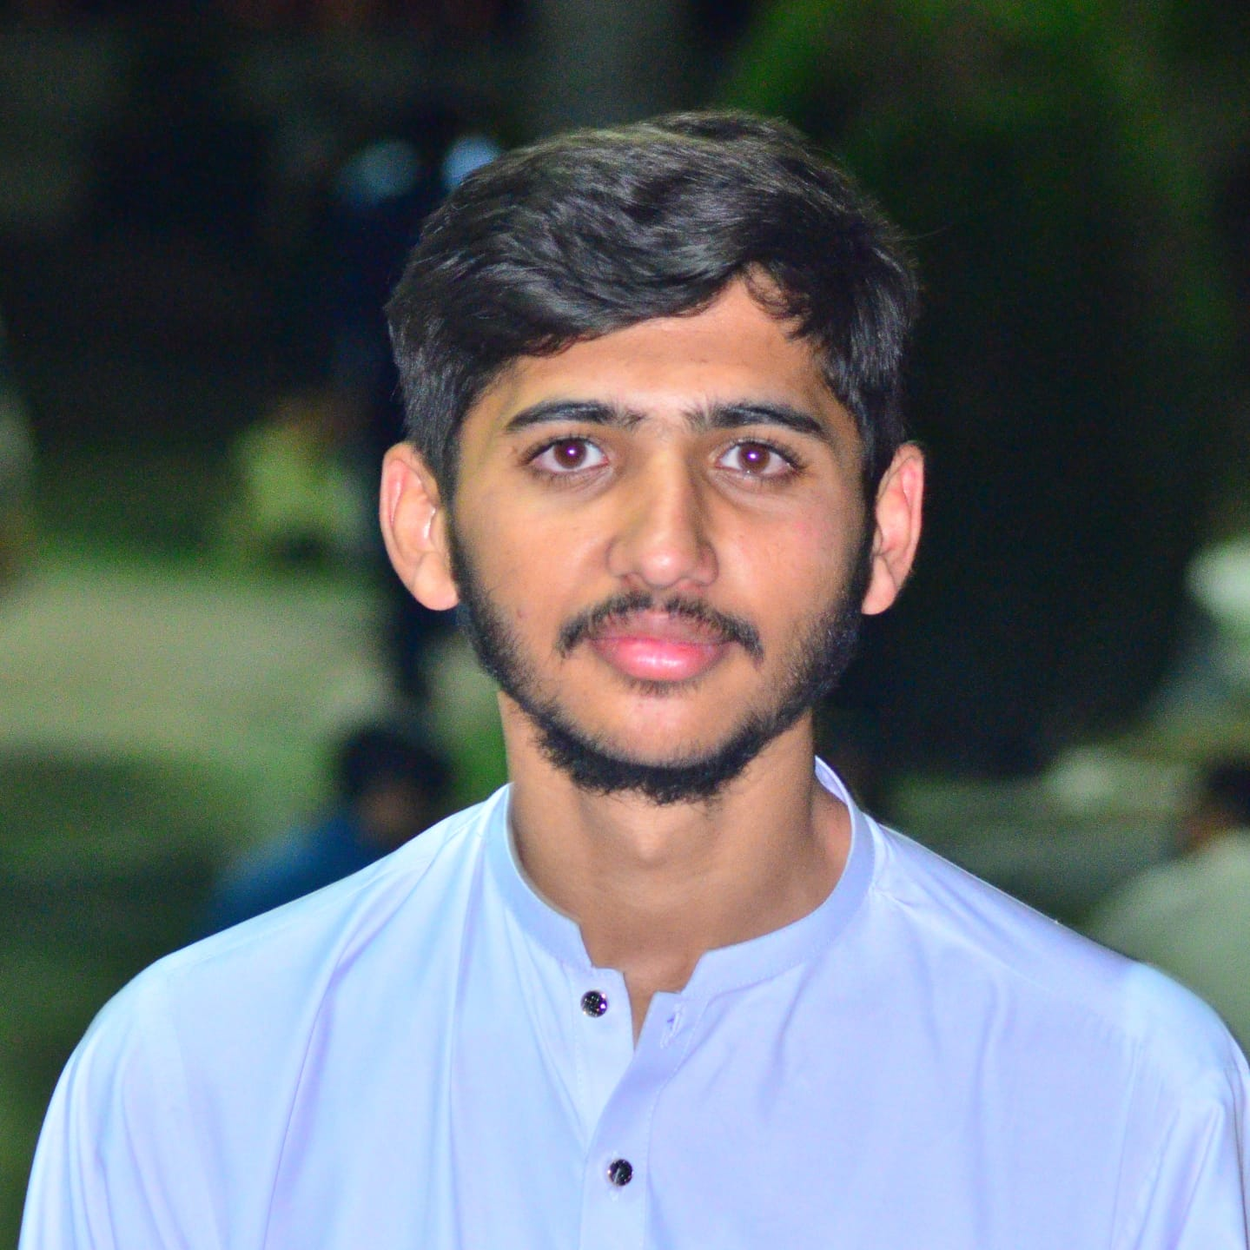
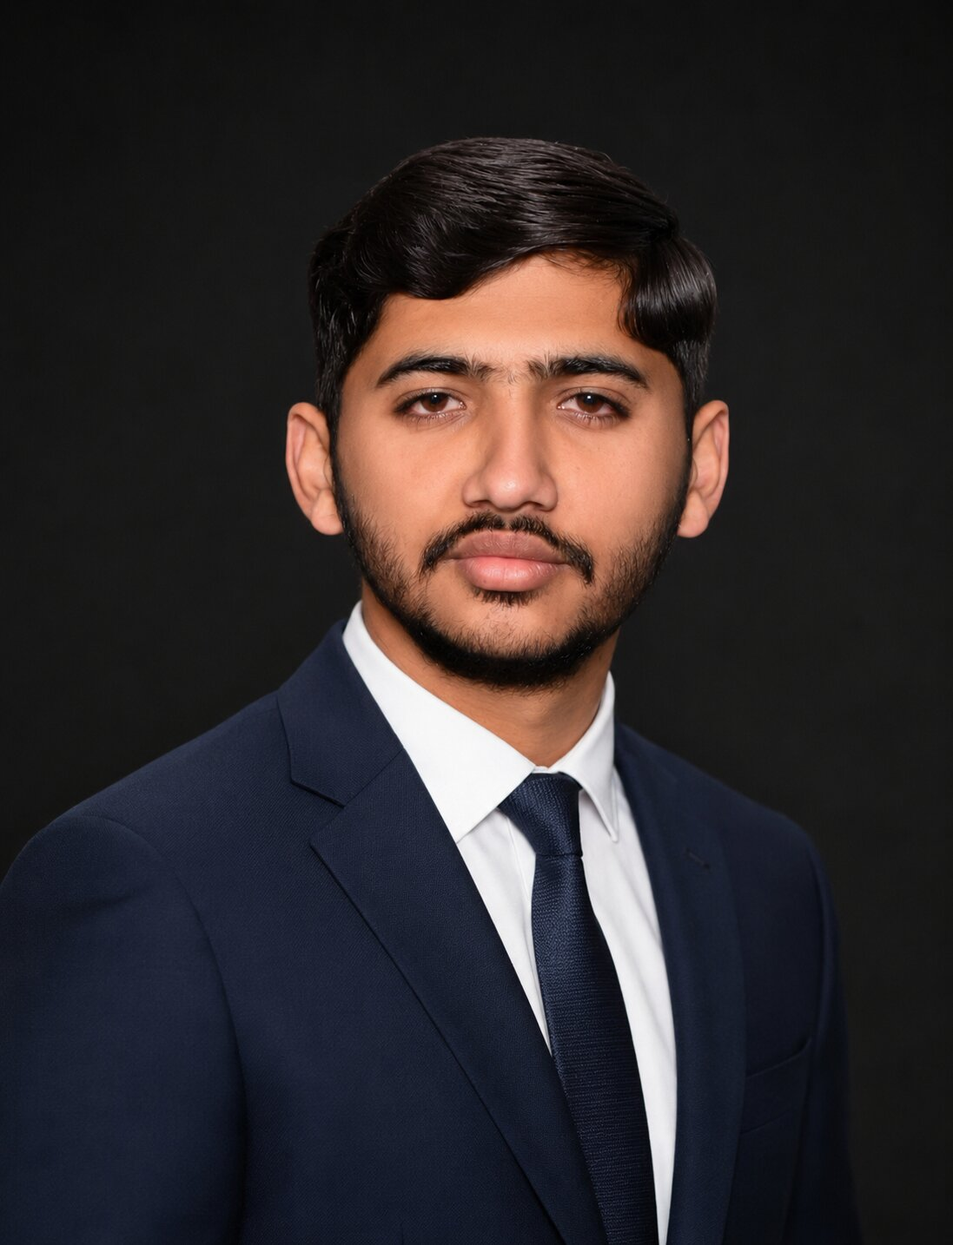
Add Google site verification HTML file for SEO purposes

diff --git a/android/build/reports/problems/problems-report.html b/android/build/reports/problems/problems-report.html
@@ -650,7 +650,7 @@ code + .copy-button {
 <script type="text/javascript">
 function configurationCacheProblems() { return (
 // begin-report-data
-{"diagnostics":[{"locations":[{"path":"build file 'C:\\Users\\Saif Ul Hassan\\AppData\\Local\\Pub\\Cache\\hosted\\pub.dev\\email_launcher-1.1.1\\android\\build.gradle'","line":8},{"path":"build file 'C:\\Users\\Saif Ul Hassan\\AppData\\Local\\Pub\\Cache\\hosted\\pub.dev\\email_launcher-1.1.1\\android\\build.gradle'","line":8}],"problem":[{"text":"The RepositoryHandler.jcenter() method has been deprecated."}],"severity":"WARNING","problemDetails":[{"text":"This is scheduled to be removed in Gradle 9.0."}],"contextualLabel":"The RepositoryHandler.jcenter() method has been deprecated.","documentationLink":"https://docs.gradle.org/8.12/userguide/upgrading_version_6.html#jcenter_deprecation","problemId":[{"name":"deprecation","displayName":"Deprecation"},{"name":"repository-jcenter","displayName":"The RepositoryHandler.jcenter() method has been deprecated."}],"solutions":[[{"text":"JFrog announced JCenter's sunset in February 2021. Use mavenCentral() instead."}]]},{"locations":[{"path":"build file 'C:\\Users\\Saif Ul Hassan\\AppData\\Local\\Pub\\Cache\\hosted\\pub.dev\\email_launcher-1.1.1\\android\\build.gradle'","line":1},{"path":"build file 'C:\\Users\\Saif Ul Hassan\\AppData\\Local\\Pub\\Cache\\hosted\\pub.dev\\email_launcher-1.1.1\\android\\build.gradle'","line":1}],"problem":[{"text":"Space-assignment syntax in Groovy DSL has been deprecated."}],"severity":"WARNING","problemDetails":[{"text":"This is scheduled to be removed in Gradle 10.0."}],"contextualLabel":"Space-assignment syntax in Groovy DSL has been deprecated.","documentationLink":"https://docs.gradle.org/8.12/userguide/upgrading_version_8.html#groovy_space_assignment_syntax","problemId":[{"name":"deprecation","displayName":"Deprecation"},{"name":"space-assignment-syntax-in-groovy-dsl","displayName":"Space-assignment syntax in Groovy DSL has been deprecated."}],"solutions":[[{"text":"Use assignment ('group = <value>') instead."}]]},{"locations":[{"path":"build file 'C:\\Users\\Saif Ul Hassan\\AppData\\Local\\Pub\\Cache\\hosted\\pub.dev\\email_launcher-1.1.1\\android\\build.gradle'","line":2},{"path":"build file 'C:\\Users\\Saif Ul Hassan\\AppData\\Local\\Pub\\Cache\\hosted\\pub.dev\\email_launcher-1.1.1\\android\\build.gradle'","line":2}],"problem":[{"text":"Space-assignment syntax in Groovy DSL has been deprecated."}],"severity":"WARNING","problemDetails":[{"text":"This is scheduled to be removed in Gradle 10.0."}],"contextualLabel":"Space-assignment syntax in Groovy DSL has been deprecated.","documentationLink":"https://docs.gradle.org/8.12/userguide/upgrading_version_8.html#groovy_space_assignment_syntax","problemId":[{"name":"deprecation","displayName":"Deprecation"},{"name":"space-assignment-syntax-in-groovy-dsl","displayName":"Space-assignment syntax in Groovy DSL has been deprecated."}],"solutions":[[{"text":"Use assignment ('version = <value>') instead."}]]},{"locations":[{"path":"build file 'C:\\Users\\Saif Ul Hassan\\AppData\\Local\\Pub\\Cache\\hosted\\pub.dev\\email_launcher-1.1.1\\android\\build.gradle'","line":20},{"path":"build file 'C:\\Users\\Saif Ul Hassan\\AppData\\Local\\Pub\\Cache\\hosted\\pub.dev\\email_launcher-1.1.1\\android\\build.gradle'","line":20}],"problem":[{"text":"The RepositoryHandler.jcenter() method has been deprecated."}],"severity":"WARNING","problemDetails":[{"text":"This is scheduled to be removed in Gradle 9.0."}],"contextualLabel":"The RepositoryHandler.jcenter() method has been deprecated.","documentationLink":"https://docs.gradle.org/8.12/userguide/upgrading_version_6.html#jcenter_deprecation","problemId":[{"name":"deprecation","displayName":"Deprecation"},{"name":"repository-jcenter","displayName":"The RepositoryHandler.jcenter() method has been deprecated."}],"solutions":[[{"text":"JFrog announced JCenter's sunset in February 2021. Use mavenCentral() instead."}]]},{"locations":[{"path":"build file 'C:\\Users\\Saif Ul Hassan\\AppData\\Local\\Pub\\Cache\\hosted\\pub.dev\\email_launcher-1.1.1\\android\\build.gradle'","line":20},{"path":"build file 'C:\\Users\\Saif Ul Hassan\\AppData\\Local\\Pub\\Cache\\hosted\\pub.dev\\email_launcher-1.1.1\\android\\build.gradle'","line":20}],"problem":[{"text":"The RepositoryHandler.jcenter() method has been deprecated."}],"severity":"WARNING","problemDetails":[{"text":"This is scheduled to be removed in Gradle 9.0."}],"contextualLabel":"The RepositoryHandler.jcenter() method has been deprecated.","documentationLink":"https://docs.gradle.org/8.12/userguide/upgrading_version_6.html#jcenter_deprecation","problemId":[{"name":"deprecation","displayName":"Deprecation"},{"name":"repository-jcenter","displayName":"The RepositoryHandler.jcenter() method has been deprecated."}],"solutions":[[{"text":"JFrog announced JCenter's sunset in February 2021. Use mavenCentral() instead."}]]},{"locations":[{"path":"build file 'C:\\Users\\Saif Ul Hassan\\AppData\\Local\\Pub\\Cache\\hosted\\pub.dev\\email_launcher-1.1.1\\android\\build.gradle'","line":20},{"path":"build file 'C:\\Users\\Saif Ul Hassan\\AppData\\Local\\Pub\\Cache\\hosted\\pub.dev\\email_launcher-1.1.1\\android\\build.gradle'","line":20}],"problem":[{"text":"The RepositoryHandler.jcenter() method has been deprecated."}],"severity":"WARNING","problemDetails":[{"text":"This is scheduled to be removed in Gradle 9.0."}],"contextualLabel":"The RepositoryHandler.jcenter() method has been deprecated.","documentationLink":"https://docs.gradle.org/8.12/userguide/upgrading_version_6.html#jcenter_deprecation","problemId":[{"name":"deprecation","displayName":"Deprecation"},{"name":"repository-jcenter","displayName":"The RepositoryHandler.jcenter() method has been deprecated."}],"solutions":[[{"text":"JFrog announced JCenter's sunset in February 2021. Use mavenCentral() instead."}]]},{"locations":[{"path":"build file 'C:\\Users\\Saif Ul Hassan\\AppData\\Local\\Pub\\Cache\\hosted\\pub.dev\\email_launcher-1.1.1\\android\\build.gradle'","line":20},{"path":"build file 'C:\\Users\\Saif Ul Hassan\\AppData\\Local\\Pub\\Cache\\hosted\\pub.dev\\email_launcher-1.1.1\\android\\build.gradle'","line":20}],"problem":[{"text":"The RepositoryHandler.jcenter() method has been deprecated."}],"severity":"WARNING","problemDetails":[{"text":"This is scheduled to be removed in Gradle 9.0."}],"contextualLabel":"The RepositoryHandler.jcenter() method has been deprecated.","documentationLink":"https://docs.gradle.org/8.12/userguide/upgrading_version_6.html#jcenter_deprecation","problemId":[{"name":"deprecation","displayName":"Deprecation"},{"name":"repository-jcenter","displayName":"The RepositoryHandler.jcenter() method has been deprecated."}],"solutions":[[{"text":"JFrog announced JCenter's sunset in February 2021. Use mavenCentral() instead."}]]},{"locations":[{"path":"build file 'C:\\Users\\Saif Ul Hassan\\AppData\\Local\\Pub\\Cache\\hosted\\pub.dev\\email_launcher-1.1.1\\android\\build.gradle'","line":20},{"path":"build file 'C:\\Users\\Saif Ul Hassan\\AppData\\Local\\Pub\\Cache\\hosted\\pub.dev\\email_launcher-1.1.1\\android\\build.gradle'","line":20}],"problem":[{"text":"The RepositoryHandler.jcenter() method has been deprecated."}],"severity":"WARNING","problemDetails":[{"text":"This is scheduled to be removed in Gradle 9.0."}],"contextualLabel":"The RepositoryHandler.jcenter() method has been deprecated.","documentationLink":"https://docs.gradle.org/8.12/userguide/upgrading_version_6.html#jcenter_deprecation","problemId":[{"name":"deprecation","displayName":"Deprecation"},{"name":"repository-jcenter","displayName":"The RepositoryHandler.jcenter() method has been deprecated."}],"solutions":[[{"text":"JFrog announced JCenter's sunset in February 2021. Use mavenCentral() instead."}]]}],"problemsReport":{"totalProblemCount":8,"buildName":"android","requestedTasks":"","documentationLink":"https://docs.gradle.org/8.12/userguide/problems-report.html","documentationLinkCaption":"Problem report","summaries":[]}}
+{"diagnostics":[{"locations":[{"path":"build file 'C:\\Users\\Saif Ul Hassan\\AppData\\Local\\Pub\\Cache\\hosted\\pub.dev\\email_launcher-1.1.1\\android\\build.gradle'","line":8},{"path":"build file 'C:\\Users\\Saif Ul Hassan\\AppData\\Local\\Pub\\Cache\\hosted\\pub.dev\\email_launcher-1.1.1\\android\\build.gradle'","line":8}],"problem":[{"text":"The RepositoryHandler.jcenter() method has been deprecated."}],"severity":"WARNING","problemDetails":[{"text":"This is scheduled to be removed in Gradle 9.0."}],"contextualLabel":"The RepositoryHandler.jcenter() method has been deprecated.","documentationLink":"https://docs.gradle.org/8.12/userguide/upgrading_version_6.html#jcenter_deprecation","problemId":[{"name":"deprecation","displayName":"Deprecation"},{"name":"repository-jcenter","displayName":"The RepositoryHandler.jcenter() method has been deprecated."}],"solutions":[[{"text":"JFrog announced JCenter's sunset in February 2021. Use mavenCentral() instead."}]]},{"locations":[{"path":"build file 'C:\\Users\\Saif Ul Hassan\\AppData\\Local\\Pub\\Cache\\hosted\\pub.dev\\email_launcher-1.1.1\\android\\build.gradle'","line":1},{"path":"build file 'C:\\Users\\Saif Ul Hassan\\AppData\\Local\\Pub\\Cache\\hosted\\pub.dev\\email_launcher-1.1.1\\android\\build.gradle'","line":1}],"problem":[{"text":"Space-assignment syntax in Groovy DSL has been deprecated."}],"severity":"WARNING","problemDetails":[{"text":"This is scheduled to be removed in Gradle 10.0."}],"contextualLabel":"Space-assignment syntax in Groovy DSL has been deprecated.","documentationLink":"https://docs.gradle.org/8.12/userguide/upgrading_version_8.html#groovy_space_assignment_syntax","problemId":[{"name":"deprecation","displayName":"Deprecation"},{"name":"space-assignment-syntax-in-groovy-dsl","displayName":"Space-assignment syntax in Groovy DSL has been deprecated."}],"solutions":[[{"text":"Use assignment ('group = <value>') instead."}]]},{"locations":[{"path":"build file 'C:\\Users\\Saif Ul Hassan\\AppData\\Local\\Pub\\Cache\\hosted\\pub.dev\\email_launcher-1.1.1\\android\\build.gradle'","line":2},{"path":"build file 'C:\\Users\\Saif Ul Hassan\\AppData\\Local\\Pub\\Cache\\hosted\\pub.dev\\email_launcher-1.1.1\\android\\build.gradle'","line":2}],"problem":[{"text":"Space-assignment syntax in Groovy DSL has been deprecated."}],"severity":"WARNING","problemDetails":[{"text":"This is scheduled to be removed in Gradle 10.0."}],"contextualLabel":"Space-assignment syntax in Groovy DSL has been deprecated.","documentationLink":"https://docs.gradle.org/8.12/userguide/upgrading_version_8.html#groovy_space_assignment_syntax","problemId":[{"name":"deprecation","displayName":"Deprecation"},{"name":"space-assignment-syntax-in-groovy-dsl","displayName":"Space-assignment syntax in Groovy DSL has been deprecated."}],"solutions":[[{"text":"Use assignment ('version = <value>') instead."}]]},{"locations":[{"path":"build file 'C:\\Users\\Saif Ul Hassan\\AppData\\Local\\Pub\\Cache\\hosted\\pub.dev\\email_launcher-1.1.1\\android\\build.gradle'","line":20},{"path":"build file 'C:\\Users\\Saif Ul Hassan\\AppData\\Local\\Pub\\Cache\\hosted\\pub.dev\\email_launcher-1.1.1\\android\\build.gradle'","line":20}],"problem":[{"text":"The RepositoryHandler.jcenter() method has been deprecated."}],"severity":"WARNING","problemDetails":[{"text":"This is scheduled to be removed in Gradle 9.0."}],"contextualLabel":"The RepositoryHandler.jcenter() method has been deprecated.","documentationLink":"https://docs.gradle.org/8.12/userguide/upgrading_version_6.html#jcenter_deprecation","problemId":[{"name":"deprecation","displayName":"Deprecation"},{"name":"repository-jcenter","displayName":"The RepositoryHandler.jcenter() method has been deprecated."}],"solutions":[[{"text":"JFrog announced JCenter's sunset in February 2021. Use mavenCentral() instead."}]]},{"locations":[{"path":"build file 'C:\\Users\\Saif Ul Hassan\\AppData\\Local\\Pub\\Cache\\hosted\\pub.dev\\email_launcher-1.1.1\\android\\build.gradle'","line":20},{"path":"build file 'C:\\Users\\Saif Ul Hassan\\AppData\\Local\\Pub\\Cache\\hosted\\pub.dev\\email_launcher-1.1.1\\android\\build.gradle'","line":20}],"problem":[{"text":"The RepositoryHandler.jcenter() method has been deprecated."}],"severity":"WARNING","problemDetails":[{"text":"This is scheduled to be removed in Gradle 9.0."}],"contextualLabel":"The RepositoryHandler.jcenter() method has been deprecated.","documentationLink":"https://docs.gradle.org/8.12/userguide/upgrading_version_6.html#jcenter_deprecation","problemId":[{"name":"deprecation","displayName":"Deprecation"},{"name":"repository-jcenter","displayName":"The RepositoryHandler.jcenter() method has been deprecated."}],"solutions":[[{"text":"JFrog announced JCenter's sunset in February 2021. Use mavenCentral() instead."}]]},{"locations":[{"path":"build file 'C:\\Users\\Saif Ul Hassan\\AppData\\Local\\Pub\\Cache\\hosted\\pub.dev\\email_launcher-1.1.1\\android\\build.gradle'","line":20},{"path":"build file 'C:\\Users\\Saif Ul Hassan\\AppData\\Local\\Pub\\Cache\\hosted\\pub.dev\\email_launcher-1.1.1\\android\\build.gradle'","line":20}],"problem":[{"text":"The RepositoryHandler.jcenter() method has been deprecated."}],"severity":"WARNING","problemDetails":[{"text":"This is scheduled to be removed in Gradle 9.0."}],"contextualLabel":"The RepositoryHandler.jcenter() method has been deprecated.","documentationLink":"https://docs.gradle.org/8.12/userguide/upgrading_version_6.html#jcenter_deprecation","problemId":[{"name":"deprecation","displayName":"Deprecation"},{"name":"repository-jcenter","displayName":"The RepositoryHandler.jcenter() method has been deprecated."}],"solutions":[[{"text":"JFrog announced JCenter's sunset in February 2021. Use mavenCentral() instead."}]]},{"locations":[{"path":"build file 'C:\\Users\\Saif Ul Hassan\\AppData\\Local\\Pub\\Cache\\hosted\\pub.dev\\email_launcher-1.1.1\\android\\build.gradle'","line":20},{"path":"build file 'C:\\Users\\Saif Ul Hassan\\AppData\\Local\\Pub\\Cache\\hosted\\pub.dev\\email_launcher-1.1.1\\android\\build.gradle'","line":20}],"problem":[{"text":"The RepositoryHandler.jcenter() method has been deprecated."}],"severity":"WARNING","problemDetails":[{"text":"This is scheduled to be removed in Gradle 9.0."}],"contextualLabel":"The RepositoryHandler.jcenter() method has been deprecated.","documentationLink":"https://docs.gradle.org/8.12/userguide/upgrading_version_6.html#jcenter_deprecation","problemId":[{"name":"deprecation","displayName":"Deprecation"},{"name":"repository-jcenter","displayName":"The RepositoryHandler.jcenter() method has been deprecated."}],"solutions":[[{"text":"JFrog announced JCenter's sunset in February 2021. Use mavenCentral() instead."}]]},{"locations":[{"path":"build file 'C:\\Users\\Saif Ul Hassan\\AppData\\Local\\Pub\\Cache\\hosted\\pub.dev\\email_launcher-1.1.1\\android\\build.gradle'","line":20},{"path":"build file 'C:\\Users\\Saif Ul Hassan\\AppData\\Local\\Pub\\Cache\\hosted\\pub.dev\\email_launcher-1.1.1\\android\\build.gradle'","line":20}],"problem":[{"text":"The RepositoryHandler.jcenter() method has been deprecated."}],"severity":"WARNING","problemDetails":[{"text":"This is scheduled to be removed in Gradle 9.0."}],"contextualLabel":"The RepositoryHandler.jcenter() method has been deprecated.","documentationLink":"https://docs.gradle.org/8.12/userguide/upgrading_version_6.html#jcenter_deprecation","problemId":[{"name":"deprecation","displayName":"Deprecation"},{"name":"repository-jcenter","displayName":"The RepositoryHandler.jcenter() method has been deprecated."}],"solutions":[[{"text":"JFrog announced JCenter's sunset in February 2021. Use mavenCentral() instead."}]]},{"locations":[{"path":"build file 'C:\\Users\\Saif Ul Hassan\\AppData\\Local\\Pub\\Cache\\hosted\\pub.dev\\email_launcher-1.1.1\\android\\build.gradle'","line":20},{"path":"build file 'C:\\Users\\Saif Ul Hassan\\AppData\\Local\\Pub\\Cache\\hosted\\pub.dev\\email_launcher-1.1.1\\android\\build.gradle'","line":20}],"problem":[{"text":"The RepositoryHandler.jcenter() method has been deprecated."}],"severity":"WARNING","problemDetails":[{"text":"This is scheduled to be removed in Gradle 9.0."}],"contextualLabel":"The RepositoryHandler.jcenter() method has been deprecated.","documentationLink":"https://docs.gradle.org/8.12/userguide/upgrading_version_6.html#jcenter_deprecation","problemId":[{"name":"deprecation","displayName":"Deprecation"},{"name":"repository-jcenter","displayName":"The RepositoryHandler.jcenter() method has been deprecated."}],"solutions":[[{"text":"JFrog announced JCenter's sunset in February 2021. Use mavenCentral() instead."}]]}],"problemsReport":{"totalProblemCount":9,"buildName":"android","requestedTasks":"","documentationLink":"https://docs.gradle.org/8.12/userguide/problems-report.html","documentationLinkCaption":"Problem report","summaries":[]}}
 // end-report-data
 );}
 </script>

diff --git a/lib/presentation/widgets/hero_section.dart b/lib/presentation/widgets/hero_section.dart
@@ -57,13 +57,16 @@ class HeroSection extends StatelessWidget {
   Widget _buildDesktopLayout(BuildContext context) {
     return Row(
       children: [
-        Expanded(
-          flex: 2,
-          child: _buildTextContent(context, isDesktop: true),
-        ),
+        Expanded(flex: 2, child: _buildTextContent(context, isDesktop: true)),
         const SizedBox(width: 50),
         Expanded(
-          child: _buildImageContent(),
+          child: Align(
+            alignment: Alignment.centerRight,
+            child: Transform.translate(
+              offset: const Offset(24, -10),
+              child: _buildImageContent(),
+            ),
+          ),
         ),
       ],
     );
@@ -83,8 +86,11 @@ class HeroSection extends StatelessWidget {
     );
   }
 
-  Widget _buildTextContent(BuildContext context,
-      {required bool isDesktop, bool isMobile = false}) {
+  Widget _buildTextContent(
+    BuildContext context, {
+    required bool isDesktop,
+    bool isMobile = false,
+  }) {
     return Column(
       crossAxisAlignment:
           isDesktop ? CrossAxisAlignment.start : CrossAxisAlignment.center,
@@ -144,14 +150,9 @@ class HeroSection extends StatelessWidget {
                 isPrimary: true,
               ),
               const SizedBox(width: 20),
-              _buildActionButton(
-                'View Work',
-                Icons.work,
-                () {
-                  ScrollToSectionNotification('projects').dispatch(context);
-                },
-                isPrimary: false,
-              ),
+              _buildActionButton('View Work', Icons.work, () {
+                ScrollToSectionNotification('projects').dispatch(context);
+              }, isPrimary: false),
             ],
           ),
         ),
@@ -199,7 +200,7 @@ class HeroSection extends StatelessWidget {
           clipBehavior: Clip.hardEdge,
           decoration: const BoxDecoration(shape: BoxShape.circle),
           child: Image.asset(
-            'assets/images/profileimg.png',
+            'assets/images/profile.jpg',
             fit: BoxFit.cover,
             errorBuilder: (context, error, stackTrace) => Container(
               decoration: const BoxDecoration(
@@ -233,9 +234,7 @@ class HeroSection extends StatelessWidget {
         side:
             isPrimary ? null : const BorderSide(color: Colors.white, width: 2),
         padding: const EdgeInsets.symmetric(horizontal: 32, vertical: 16),
-        shape: RoundedRectangleBorder(
-          borderRadius: BorderRadius.circular(30),
-        ),
+        shape: RoundedRectangleBorder(borderRadius: BorderRadius.circular(30)),
       ),
     );
   }
@@ -244,32 +243,34 @@ class HeroSection extends StatelessWidget {
     return Row(
       mainAxisAlignment: MainAxisAlignment.center,
       children: [
-        _buildSocialButton(
-          Icons.email,
-          () {
-            const email = AppConstants.email;
-            final subject = Uri.encodeComponent('Contact from Portfolio');
-            final body = Uri.encodeComponent(
-                'Hi Saiful,\n\nI would like to get in touch with you.');
-            final mailtoUrl = 'mailto:$email?subject=$subject&body=$body';
-            if (kIsWeb) {
-              // Use both location.assign and location.href for maximum compatibility
-              try {
-                html.window.location.assign(mailtoUrl);
-              } catch (e) {
-                html.window.location.href = mailtoUrl;
-              }
-            } else {
-              _launchURL(mailtoUrl);
+        _buildSocialButton(Icons.email, () {
+          const email = AppConstants.email;
+          final subject = Uri.encodeComponent('Contact from Portfolio');
+          final body = Uri.encodeComponent(
+            'Hi Saiful,\n\nI would like to get in touch with you.',
+          );
+          final mailtoUrl = 'mailto:$email?subject=$subject&body=$body';
+          if (kIsWeb) {
+            // Use both location.assign and location.href for maximum compatibility
+            try {
+              html.window.location.assign(mailtoUrl);
+            } catch (e) {
+              html.window.location.href = mailtoUrl;
             }
-          },
+          } else {
+            _launchURL(mailtoUrl);
+          }
+        }),
+        const SizedBox(width: 20),
+        _buildSocialButton(
+          FontAwesomeIcons.github,
+          () => _launchURL(AppConstants.github),
         ),
         const SizedBox(width: 20),
         _buildSocialButton(
-            FontAwesomeIcons.github, () => _launchURL(AppConstants.github)),
-        const SizedBox(width: 20),
-        _buildSocialButton(
-            FontAwesomeIcons.linkedin, () => _launchURL(AppConstants.linkedIn)),
+          FontAwesomeIcons.linkedin,
+          () => _launchURL(AppConstants.linkedIn),
+        ),
       ],
     );
   }
@@ -338,14 +339,16 @@ class HeroSection extends StatelessWidget {
       // On mobile, show PDF using a viewer package (not implemented here)
       ScaffoldMessenger.of(context).showSnackBar(
         const SnackBar(
-            content: Text('Opening CV... (PDF viewer not implemented)')),
+          content: Text('Opening CV... (PDF viewer not implemented)'),
+        ),
       );
       // You can use a package like open_file or pdfx for real implementation
     } else {
       // On desktop, open the PDF asset (not implemented)
       ScaffoldMessenger.of(context).showSnackBar(
         const SnackBar(
-            content: Text('Download not supported on this platform.')),
+          content: Text('Download not supported on this platform.'),
+        ),
       );
     }
   }

diff --git a/lib/main.dart b/lib/main.dart
@@ -1,15 +1,23 @@
 import 'package:flutter/material.dart';
 import 'core/themes/app_theme.dart';
 import 'presentation/pages/portfolio_page.dart';
-
+import 'package:flutter/services.dart';
 import 'package:flutter_dotenv/flutter_dotenv.dart';
 
-void main() async {
+Future<void> main() async {
+  WidgetsFlutterBinding.ensureInitialized();
+
   try {
-    await dotenv.load(fileName: ".env");
-  } catch (e) {
-    debugPrint("Warning: Could not load .env file: $e");
+    final env = await rootBundle.loadString('.env');
+    debugPrint(env); // Temporary test
+
+    await dotenv.load(fileName: '.env');
+    debugPrint("Loaded .env successfully");
+  } catch (e, st) {
+    debugPrint("Error loading .env: $e");
+    debugPrintStack(stackTrace: st);
   }
+
   runApp(const MyPortfolioApp());
 }
 

diff --git a/docs/flutter_service_worker.js b/docs/flutter_service_worker.js
@@ -10,7 +10,7 @@ const RESOURCES = {"assets/AssetManifest.bin": "eaf61be61e748067aed30365a473a737
 "assets/assets/images/jpmorgan.png": "b78acdbc757b88800a5af239ebdf9e8f",
 "assets/assets/images/Mindluster.png": "f8f7fda978c3082e48357316b392b0b1",
 "assets/assets/images/oracle.png": "711beff870b5572676ab07edf4cf0aca",
-"assets/assets/images/Profile.jpg": "10fdc540f4bae0782adb34cf455763ee",
+"assets/assets/images/Profile.png": "10fdc540f4bae0782adb34cf455763ee",
 "assets/assets/images/README.md": "133195fa82d275cd7fe4a60f3ec71f23",
 "assets/assets/images/tech/androidstudio.svg": "3ff58371b0c53cb2f7d238415fea97f5",
 "assets/assets/images/tech/bloc.svg": "d2da19545b715e67c4b36eb51b366c67",

diff --git a/web/index.html b/web/index.html
@@ -24,10 +24,10 @@
   <meta name="mobile-web-app-capable" content="yes">
   <meta name="apple-mobile-web-app-status-bar-style" content="black">
   <meta name="apple-mobile-web-app-title" content="iamsaifulhassan_portfolio">
-  <link rel="apple-touch-icon" href="icons/Icon-192.png">
+  <link rel="apple-touch-icon" href="assets/images/profile.jpg">
 
   <!-- Favicon -->
-  <link rel="icon" type="image/png" href="favicon.png"/>
+  <link rel="icon" type="image/jpeg" href="assets/images/profile.jpg"/>
 
   <title>Saiful Hassan - Portfolio</title>
   <link rel="manifest" href="manifest.json">

diff --git a/lib/data/repositories/portfolio_repository.dart b/lib/data/repositories/portfolio_repository.dart
@@ -534,7 +534,7 @@ class PortfolioRepository {
         degree: 'Bachelor of Science in Software Engineering',
         field: 'Software Engineering',
         duration: '2022 - Present',
-        grade: 'CGPA: 3.55/4.00',
+        grade: 'CGPA: 3.70/4.00',
         description:
             'Specialized in Software Engineering and Mobile Application Development',
       ),

diff --git a/docs/google5c17cba3e5ad13cc.html b/docs/google5c17cba3e5ad13cc.html
@@ -1,0 +1,1 @@
+google-site-verification: google5c17cba3e5ad13cc.html
